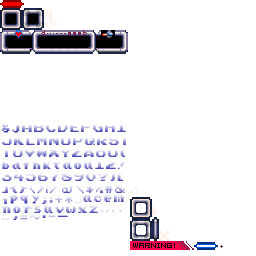
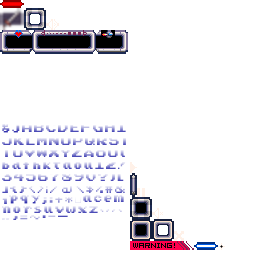
reskinned button, higher resolution required

Changed region(s): [[0.5, 0.6562, 0.6875, 0.9688], [0.0, 0.0312, 0.1875, 0.125]]

diff --git a/core/src/main/kotlin/com/p4pProject/gameTutorial/ui/skin.kt b/core/src/main/kotlin/com/p4pProject/gameTutorial/ui/skin.kt
@@ -13,7 +13,7 @@ enum class SkinLabel {
 }
 
 enum class SkinImageButton {
-    PAUSE_PLAY, QUIT, SOUND_ON_OFF
+    PAUSE_PLAY, QUIT, SOUND_ON_OFF, WARRIOR_ATTACK
 }
 
 enum class SkinTextButton {
@@ -33,6 +33,7 @@ enum class SkinImage(val atlasKey: String) {
     WARNING("warning"),
     LIFE_BAR("life_bar"),
     SHIELD_BAR("shield_bar"),
+    WARRIOR_ATTACK("warriorAttack"),
     PLAY("play"),
     PAUSE("pause"),
     QUIT("quit"),
@@ -105,6 +106,12 @@ private fun Skin.createTextButtonStyles(
 
 // Use this to create new buttons
 private fun Skin.createImageButtonStyles(skin: Skin) {
+
+    imageButton(SkinImageButton.WARRIOR_ATTACK.name) {
+        imageUp = skin.getDrawable(SkinImage.WARRIOR_ATTACK.atlasKey)
+        imageDown = imageUp
+    }
+
     imageButton(SkinImageButton.PAUSE_PLAY.name) {
         imageUp = skin.getDrawable(SkinImage.PAUSE.atlasKey)
         imageChecked = skin.getDrawable(SkinImage.PLAY.atlasKey)

diff --git a/core/src/main/kotlin/com/p4pProject/gameTutorial/screen/GameScreen.kt b/core/src/main/kotlin/com/p4pProject/gameTutorial/screen/GameScreen.kt
@@ -97,11 +97,8 @@ class GameScreen(
             table {
                 right().bottom()
                 pad(5f)
-                imageButton(SkinImageButton.PAUSE_PLAY.name) {
-                    x = 50f
-                    y = 50f
+                imageButton(SkinImageButton.WARRIOR_ATTACK.name) {
                     color.a = 1.0f
-
                     onClick {
                         gameEventManager.dispatchEvent(GameEvent.PlayerAttack.apply {
                             this.damage = 50f
